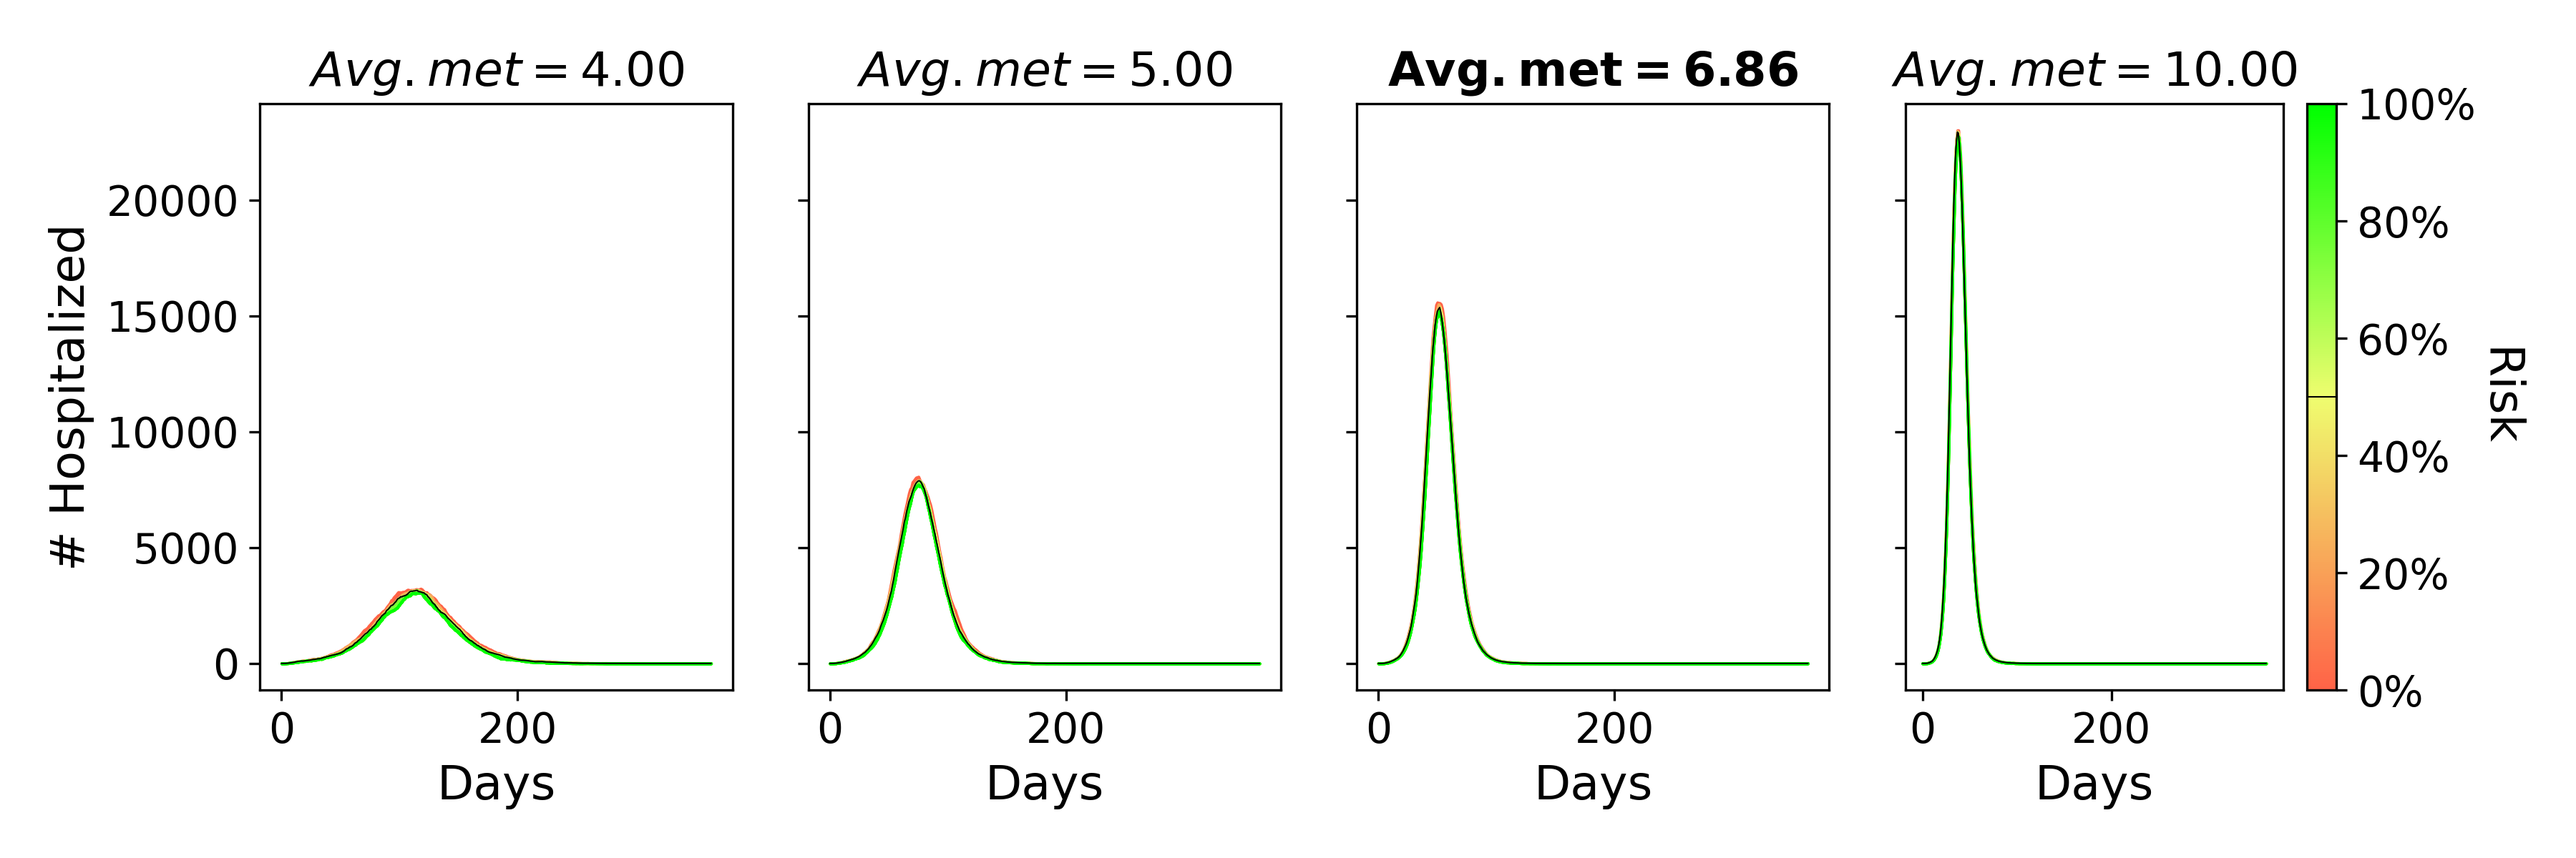
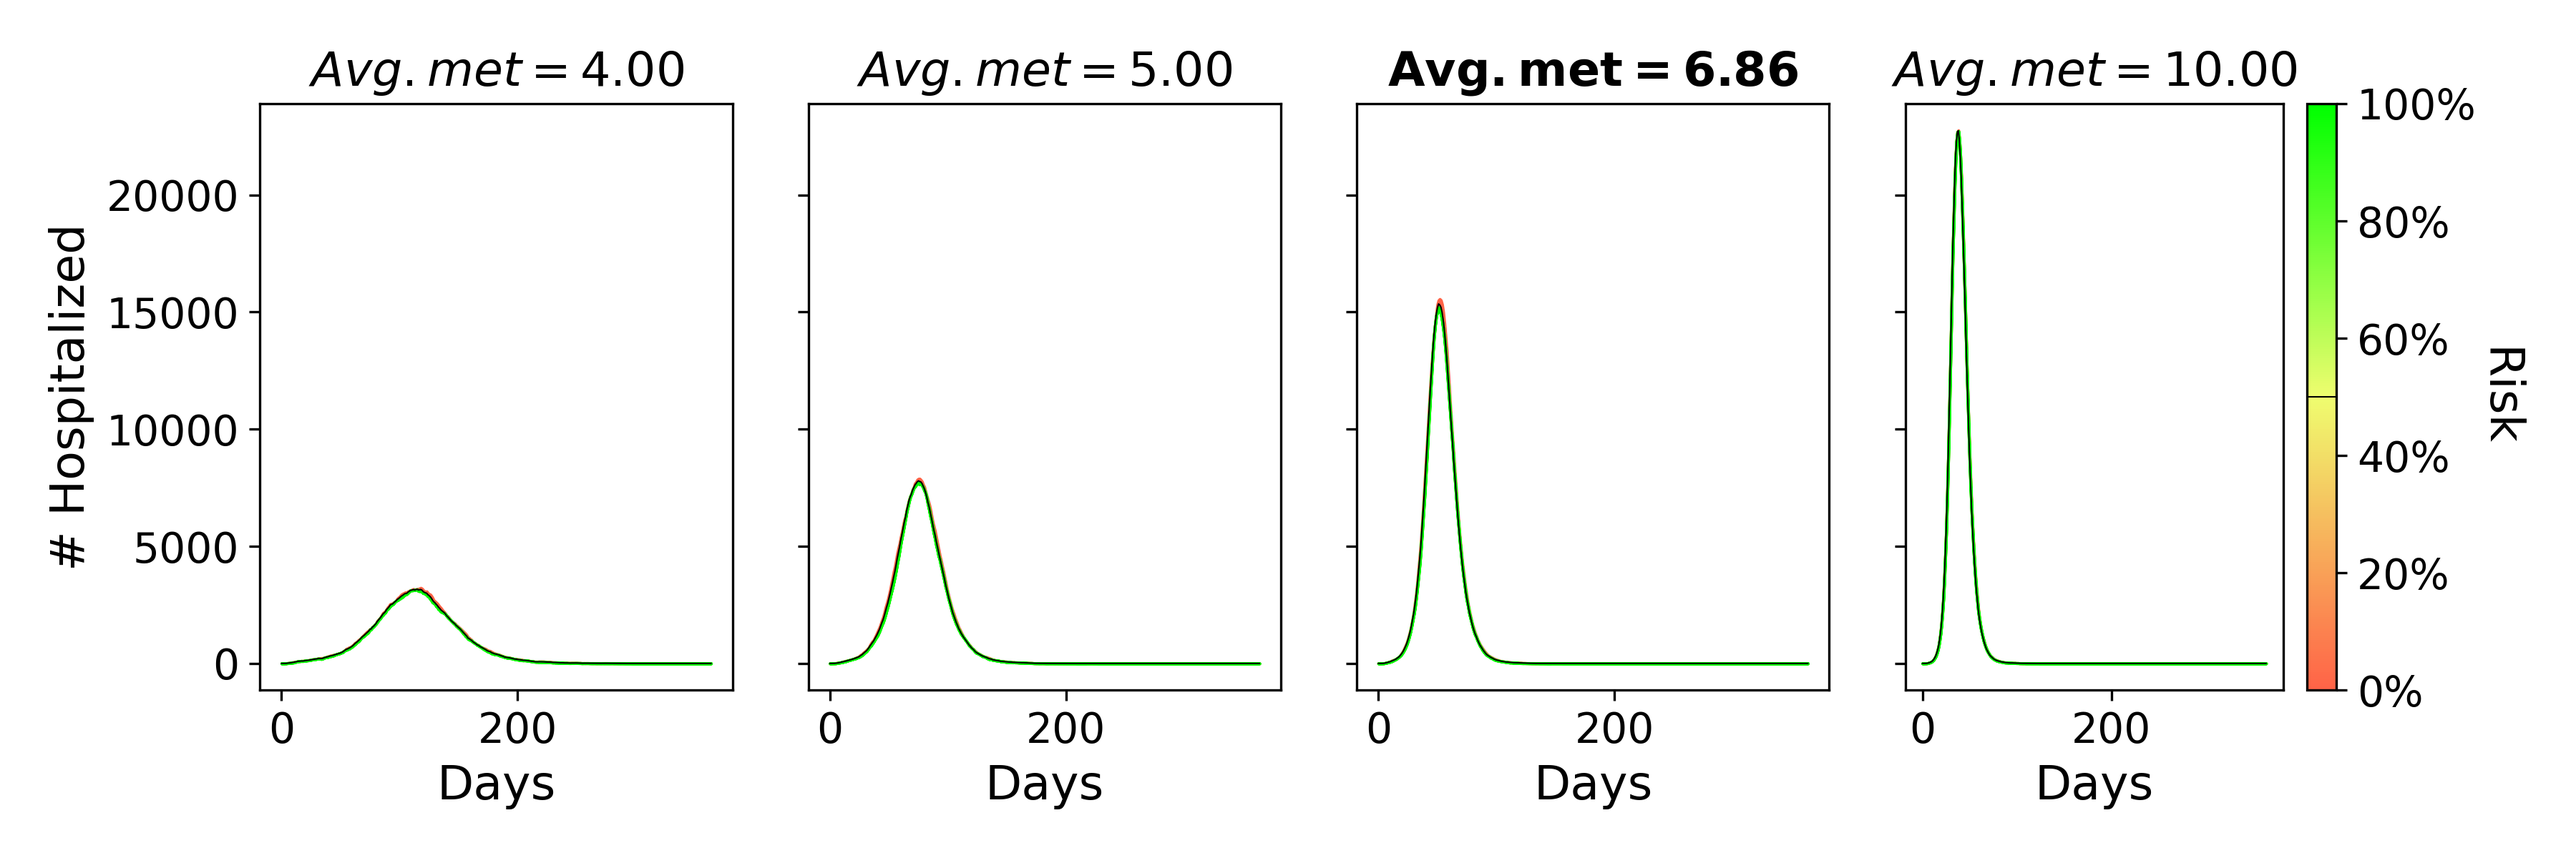
more plots

diff --git a/scenarios.py b/scenarios.py
@@ -16,7 +16,7 @@ import pandas as pd
 
 from simulation import simulate, repeat_simulate
 
-n_repeats = 5
+n_repeats = 2
 
 plot_path = 'plots'
 
@@ -50,7 +50,6 @@ def scenario1():
     plt.show()
 
 def scenario2():
-
     # SEIR model.
     sampler = Sampler()  # crit_prob=0.0, symp_prob=1.0, fraction_symp_out=1.0
     # We have S -> E (latent/incubation period) -> I_symp -> R
@@ -62,6 +61,8 @@ def scenario2():
 
     contageon_probs = [0.02, 0.025, 0.04, 0.05]
     average_people_mets = [4, 5, 6.86, 10]
+    symp_people_out = [0.0, 0.1, 0.5, 1]
+
 
     fig, axs = plt.subplots(1, len(contageon_probs), squeeze=True, sharey='row', figsize=(12, 4))
     for i, (ax, contageon_prob) in enumerate(zip(axs, contageon_probs)):
@@ -130,6 +131,40 @@ def scenario2():
     plt.savefig(os.path.join(plot_path, '2_SEIR_distancing_hospitalized.png'), dpi=300)
     plt.show()
 
+    sampler.avg_people_met_pr_day = 6.86  # Set back to default
+    fig, axs = plt.subplots(1, len(symp_people_out), squeeze=True, sharey='row', figsize=(12, 4))
+    for i, (ax, fraction_symp_out) in enumerate(zip(axs, symp_people_out)):
+        sampler.fraction_symp_out = fraction_symp_out
+        np.random.seed(7)
+        result = simulate(country)
+        Plotter.plot_SIR(result, ax=ax)
+        ax.set_title(f'$p_o ={fraction_symp_out * 100:.1f}$%')
+        if i == 1:
+            ax.set_title(f'$\\bf p_o ={fraction_symp_out * 100:.1f}\%$')
+        ax.set_xlabel('Days')
+        if i == len(symp_people_out)-1:
+            ax.legend(['I', 'S', 'Recovered', 'Dead'], loc='upper center',
+                      bbox_to_anchor=(1.5, 1), fancybox=False, shadow=False, ncol=1)
+    plt.tight_layout()  # rect=[0, 0.03, 1, 0.95]
+    plt.savefig(os.path.join(plot_path, '2_SEIR_symp_out.png'), dpi=300)
+    plt.show()
+
+    fig, axs = plt.subplots(1, len(symp_people_out), squeeze=True, sharey='row', figsize=(12, 4))
+    for i, (ax, fraction_symp_out) in enumerate(zip(axs, symp_people_out)):
+        sampler.fraction_symp_out = fraction_symp_out
+        np.random.seed(7)
+        result = repeat_simulate(country, n_repeats=n_repeats)
+        Plotter.plot_intervals(result['I_crit'], ax=ax, colorbar=i==len(contageon_probs)-1)
+        ax.set_title(f'$p_o ={fraction_symp_out * 100:.1f}$%')
+        ax.set_xlabel('Days')
+        if i == 0:
+            ax.set_ylabel('# Hospitalized')
+        if i == 1:
+            ax.set_title(f'$\\bf p_o ={fraction_symp_out * 100:.1f}\%$')
+    plt.tight_layout()
+    plt.savefig(os.path.join(plot_path, '2_SEIR_symp_out_hospitalized.png'), dpi=300)
+    plt.show()
+
     if False:  # 2D grid plots
         fig, axs = plt.subplots(len(average_people_mets), len(contageon_probs), squeeze=False,
                                 sharey='row', sharex='col', figsize=(12, 12))
@@ -154,29 +189,6 @@ def scenario2():
         plt.savefig(os.path.join(plot_path, '2_SEIR.png'), dpi=300)
         plt.show()
 
-    return None
-    fig, axs = plt.subplots(len(average_people_mets), len(contageon_probs), squeeze=False,
-                            sharey='row', sharex='col', figsize=(12, 12))
-    for j, axs2 in enumerate(axs):
-        for i, ax in enumerate(axs2):
-            contageon_prob = contageon_probs[i]
-            average_people_met = average_people_mets[j]
-            sampler.contagion_prob = contageon_prob
-            sampler.avg_people_met_pr_day = average_people_met
-            result = repeat_simulate(country)
-            Plotter.plot_intervals(result['I'], ax=ax)
-            if j == 0:
-                ax.set_title(f'$p={contageon_prob:.2f}$')
-            if j == len(average_people_mets) - 1:
-                ax.set_xlabel('Days')
-                # if i == 1:
-                #    ax.legend(['I', 'S', 'Recovered', 'Dead'], loc='lower left',
-                #              bbox_to_anchor=(0.5, -0.54, 2, .102), fancybox=False, shadow=False, ncol=4)
-            if i == 0:
-                ax.set_ylabel(f'$Avg. met. ={average_people_met:.2f}$')
-
-    plt.savefig(os.path.join(plot_path, '2_SEIR_infections.png'), dpi=300)
-    plt.show()
 
 def scenario3():
     np.random.seed(7)
